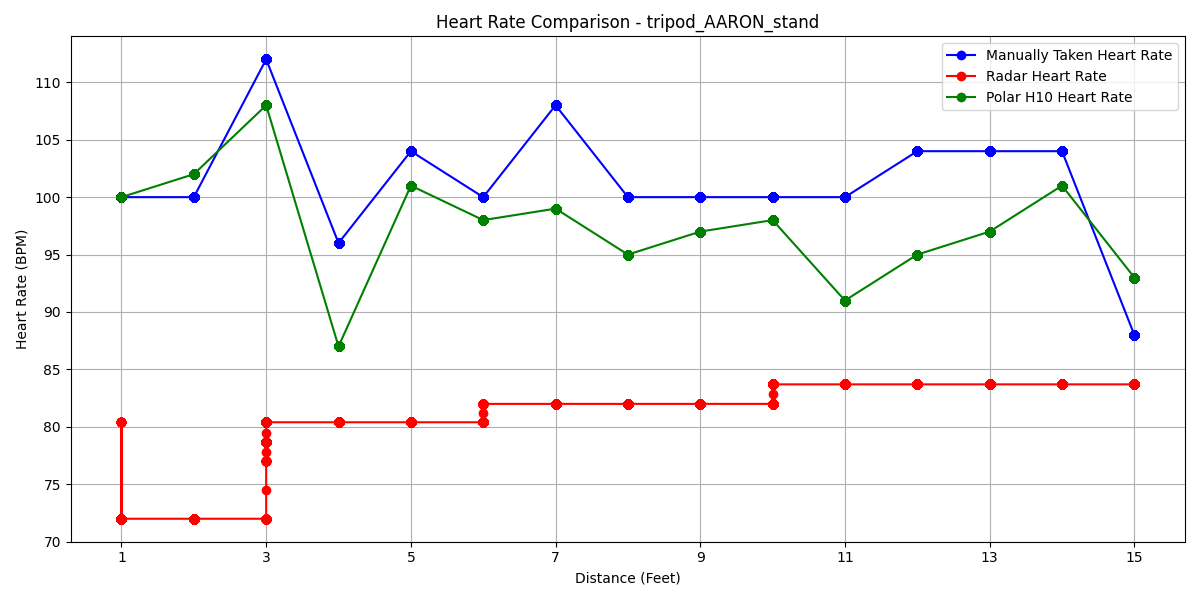
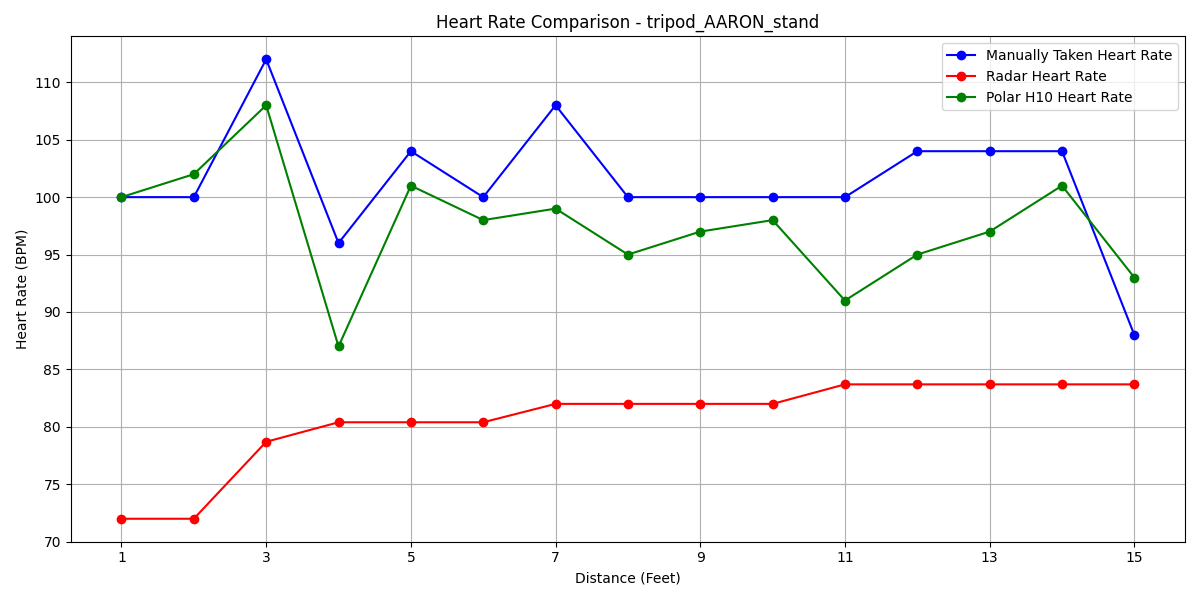
fine tuning

diff --git a/figure_scripts/pulse_final.py b/figure_scripts/pulse_final.py
@@ -32,7 +32,7 @@ def process_csv_files_in_directory(root_folder, subfolder):
 
     return vitals_file_path, pd.concat(all_parts_combined, ignore_index=True) if all_parts_combined else None
 
-def time_to_seconds(time_str):
+def vitals_time_to_seconds(time_str):
     parts = time_str.split(':')
     if len(parts) == 2:
         m, s = map(int, parts)
@@ -41,7 +41,10 @@ def time_to_seconds(time_str):
         return int(parts[0])
     else:
         raise ValueError(f"Unexpected time format: {time_str}")
-    
+
+def radar_time_to_seconds(time_str):
+    return float(time_str) 
+
 def process_csv_file(vitals_file_path, parts_combined, subfolder):
     if vitals_file_path is None or parts_combined is None:
         print(f"Required CSV files not found for {subfolder}.")
@@ -54,18 +57,23 @@ def process_csv_file(vitals_file_path, parts_combined, subfolder):
 
     vitals_data = vitals.copy()
     
-    vitals_data['Seconds'] = vitals_data['Time for Pulse'].apply(time_to_seconds).astype(float)
-    parts_combined['Seconds'] = parts_combined['Timestamp'].astype(float)
+    vitals_data['Seconds'] = vitals_data['Time for Pulse'].apply(vitals_time_to_seconds).astype(float)
+    parts_combined['Seconds'] = parts_combined['Timestamp'].apply(radar_time_to_seconds)
 
-    merged_df = pd.merge_asof(parts_combined.sort_values('Seconds'), 
-                              vitals_data[['Seconds', 'Pulse', 'Heart', 'Marker']].sort_values('Seconds'), 
-                              on='Seconds', 
-                              direction='nearest')
+    parts_combined['Heart Rate'] = pd.to_numeric(parts_combined['Heart Rate'], errors='coerce')
+
+    def find_closest_radar_heart_rate(target_time):
+        closest_rows = parts_combined[parts_combined['Heart Rate'].notna()].iloc[
+            (parts_combined[parts_combined['Heart Rate'].notna()]['Seconds'] - target_time).abs().argsort()[:1]
+        ]
+        return closest_rows['Heart Rate'].values[0] if not closest_rows.empty else np.nan
+
+    vitals_data['Radar Heart Rate'] = vitals_data['Seconds'].apply(find_closest_radar_heart_rate)
 
     plt.figure(figsize=(12, 6))
-    plt.plot(merged_df['Marker'], merged_df['Pulse'], 'o-', label='Manually Taken Heart Rate', color='blue')
-    plt.plot(merged_df['Marker'], merged_df['Heart Rate'], 'o-', label='Radar Heart Rate', color='red')
-    plt.plot(merged_df['Marker'], merged_df['Heart'], 'o-', label='Polar H10 Heart Rate', color='green')
+    plt.plot(vitals_data['Marker'], vitals_data['Pulse'], 'o-', label='Manually Taken Heart Rate', color='blue')
+    plt.plot(vitals_data['Marker'], vitals_data['Radar Heart Rate'], 'o-', label='Radar Heart Rate', color='red')
+    plt.plot(vitals_data['Marker'], vitals_data['Heart'], 'o-', label='Polar H10 Heart Rate', color='green')
 
     plt.xlabel('Distance (Feet)')
     plt.ylabel('Heart Rate (BPM)')
@@ -73,33 +81,34 @@ def process_csv_file(vitals_file_path, parts_combined, subfolder):
     plt.legend()
     plt.grid(True)
 
-    plt.xticks(merged_df['Marker'].unique()[::2])
+    plt.xticks(vitals_data['Marker'].unique()[::2])
 
     plt.tight_layout()
     output_file_name = f"figures/pulse/{subfolder}_heart_comparison.png"
+    os.makedirs(os.path.dirname(output_file_name), exist_ok=True)
     plt.savefig(output_file_name)
     plt.close()
 
     print(f"\nResults for {subfolder}:")
     print("Manually Taken Heart Rate Range:", 
-          merged_df['Pulse'].min(), "-", merged_df['Pulse'].max())
+          vitals_data['Pulse'].min(), "-", vitals_data['Pulse'].max())
     print("Radar Heart Rate Range:", 
-          merged_df['Heart Rate'].min(), "-", merged_df['Heart Rate'].max())
+          vitals_data['Radar Heart Rate'].min(), "-", vitals_data['Radar Heart Rate'].max())
     print("Polar H10 Heart Rate Range:", 
-          merged_df['Heart'].min(), "-", merged_df['Heart'].max())
+          vitals_data['Heart'].min(), "-", vitals_data['Heart'].max())
     print("\nFirst few rows of aligned data:")
-    print(merged_df[['Seconds', 'Pulse', 'Heart Rate', 'Heart', 'Marker']].head())
+    print(vitals_data[['Marker', 'Pulse', 'Radar Heart Rate', 'Heart']].head())
 
-    avg_manual = merged_df['Pulse'].mean()
-    avg_radar = merged_df['Heart Rate'].mean()
-    avg_polar = merged_df['Heart'].mean()
+    avg_manual = vitals_data['Pulse'].mean()
+    avg_radar = vitals_data['Radar Heart Rate'].mean()
+    avg_polar = vitals_data['Heart'].mean()
     print(f"\nAverage Manually Taken Heart Rate: {avg_manual:.2f} BPM")
     print(f"Average Radar Heart Rate: {avg_radar:.2f} BPM")
     print(f"Average Polar H10 Heart Rate: {avg_polar:.2f} BPM")
 
-    correlation_manual_radar = merged_df['Pulse'].corr(merged_df['Heart Rate'])
-    correlation_manual_polar = merged_df['Pulse'].corr(merged_df['Heart'])
-    correlation_radar_polar = merged_df['Heart Rate'].corr(merged_df['Heart'])
+    correlation_manual_radar = vitals_data['Pulse'].corr(vitals_data['Radar Heart Rate'])
+    correlation_manual_polar = vitals_data['Pulse'].corr(vitals_data['Heart'])
+    correlation_radar_polar = vitals_data['Radar Heart Rate'].corr(vitals_data['Heart'])
     print(f"\nCorrelation between Manual and Radar Heart Rate: {correlation_manual_radar:.2f}")
     print(f"Correlation between Manual and Polar H10 Heart Rate: {correlation_manual_polar:.2f}")
     print(f"Correlation between Radar and Polar H10 Heart Rate: {correlation_radar_polar:.2f}")
